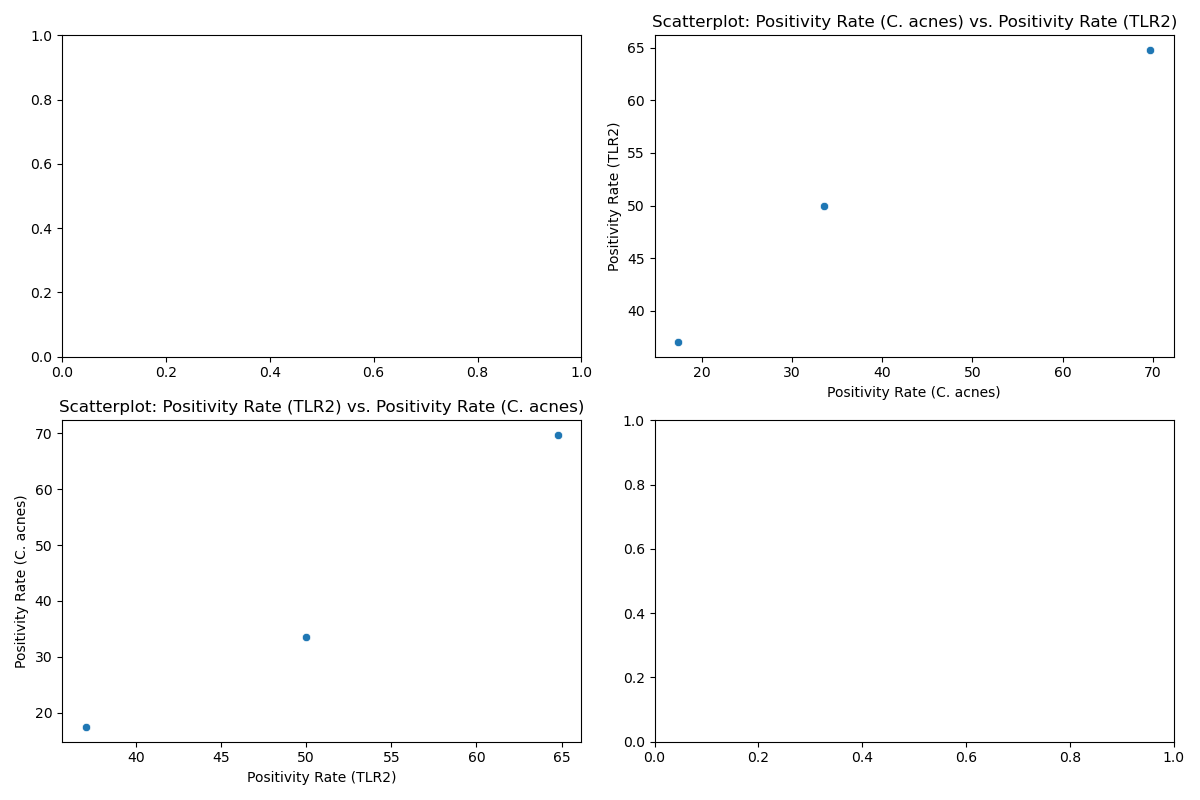
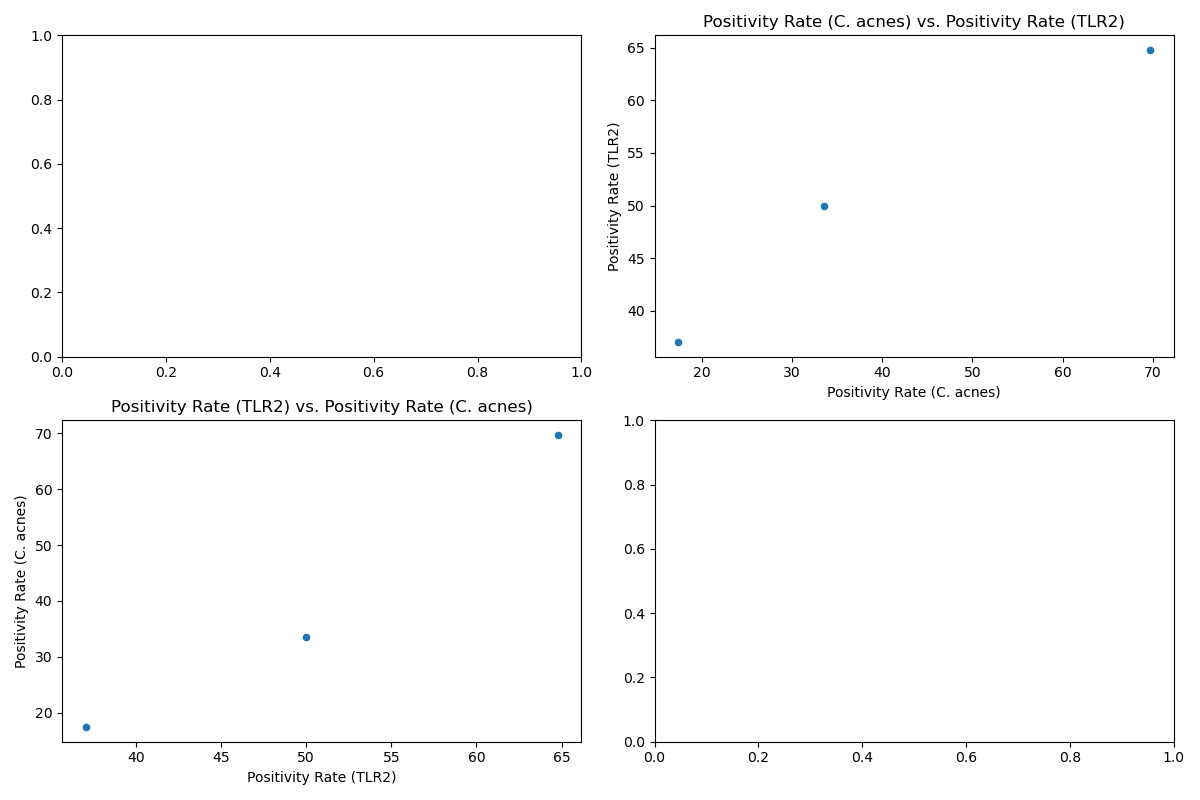
Graph mods

Changed region(s): [[0.555, 0.0, 0.9867, 0.0312], [0.0617, 0.5, 0.4933, 0.5312]]

diff --git a/process_mrxs_data.py b/process_mrxs_data.py
@@ -297,7 +297,7 @@ class ProcessMRXSData:
                         sns.scatterplot(x=graph_data[pos_rate_columns[i]], y=graph_data[pos_rate_columns[j]], ax=axes[i, j])
                         axes[i, j].set_xlabel(pos_rate_columns[i])
                         axes[i, j].set_ylabel(pos_rate_columns[j])
-                        axes[i, j].set_title(f'Scatterplot: {pos_rate_columns[i]} vs. {pos_rate_columns[j]}')
+                        axes[i, j].set_title(f'{pos_rate_columns[i]} vs. {pos_rate_columns[j]}')
 
             plt.tight_layout()
 
